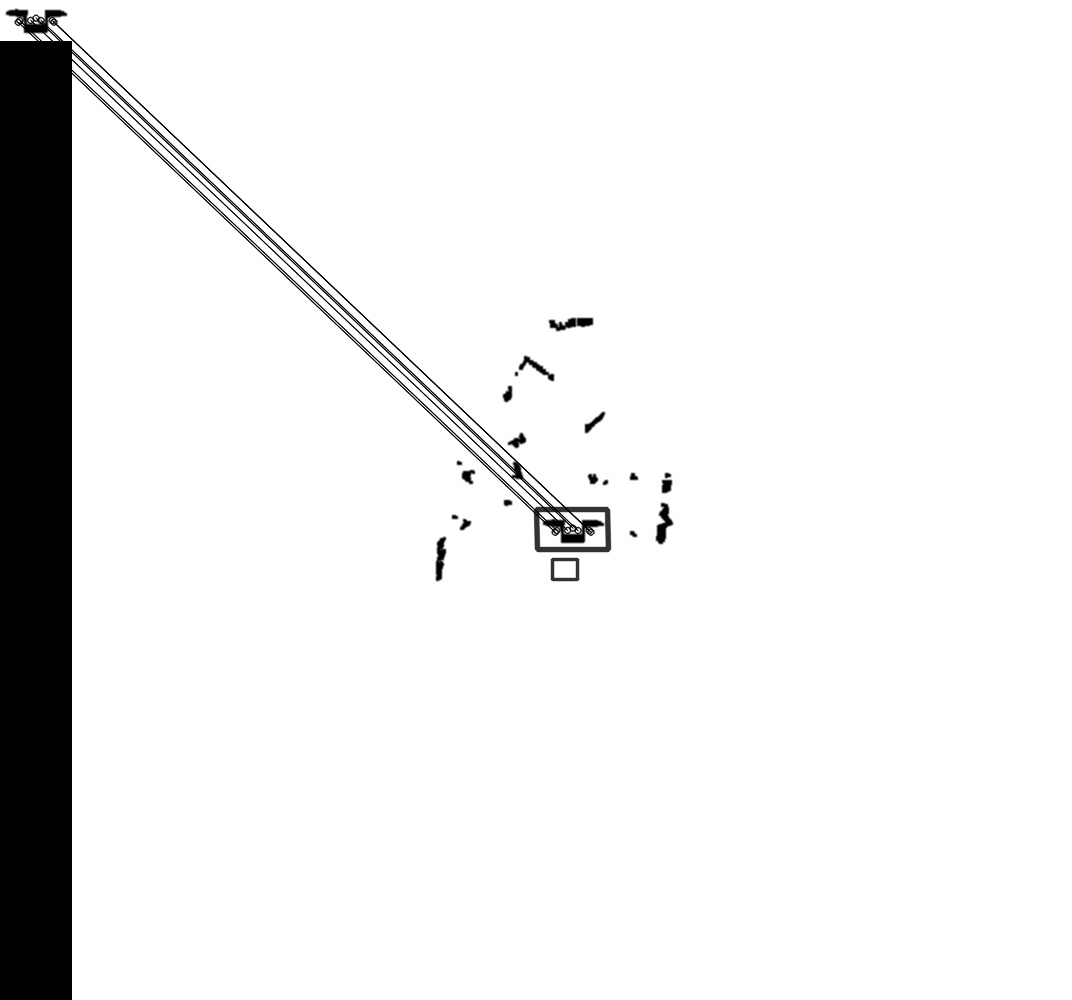
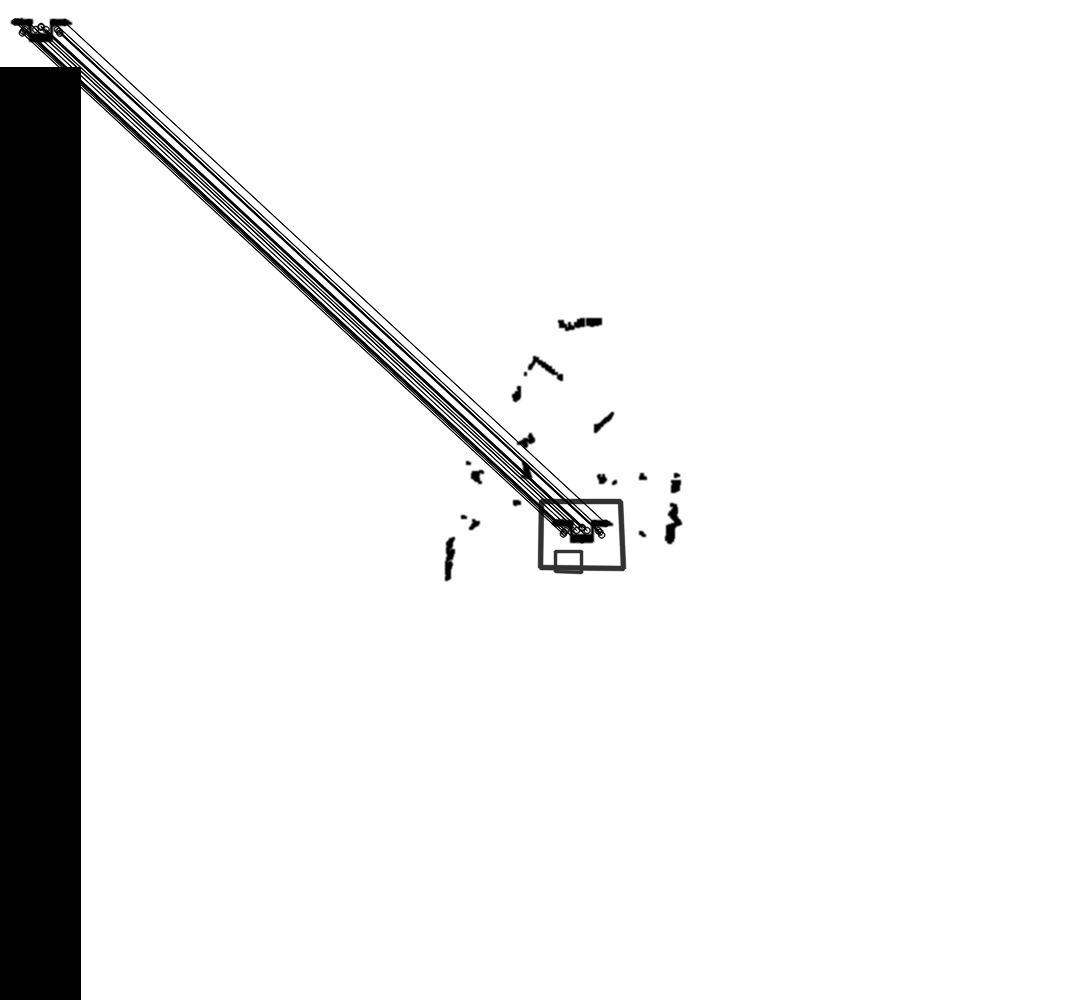
OK surf Live! Bigger parking spot image and tweak with surf threshold.

diff --git a/image_processing.py b/image_processing.py
@@ -6,7 +6,7 @@ from matplotlib import pyplot as plt
 THRESHOLD               = 100 #less means more stricts
 EROSION                 = 2 #Iteration. More means thicker
 DILATION                = 2 #Iteration. More means more is removed
-MIN_MATCH_COUNT         = 2
+MIN_MATCH_COUNT         = 8
 SURF                    = True
 SAVE_PICTURES           = False
 def thresholding(img):
@@ -45,23 +45,31 @@ def find_spot(img=None): #Working well ish
     img = cv2.imread('erosion.jpg', 0)
     img = blur(img, 3, 0)
 
-    box = cv2.imread('erosion_box.png',0) # queryImage
+    box = cv2.imread('test.png',0) # queryImage
     box = blur(box, 3, 0) #5 here 5 other both 0 works ok
 
     # Initiate surf detector
-    surf = cv2.xfeatures2d.SURF_create(2000*1.3) if SURF else cv2.xfeatures2d.SIFT_create()
+    surf = cv2.xfeatures2d.SURF_create(2000*2) if SURF else cv2.xfeatures2d.SIFT_create() #
 
     # find the keypoints and descriptors with surf
     kp1, des1 = surf.detectAndCompute(box,None)
     kp2, des2 = surf.detectAndCompute(img,None)
 
-    FLANN_INDEX_KDTREE = 0
+    '''FLANN_INDEX_KDTREE = 0
     index_params = dict(algorithm = FLANN_INDEX_KDTREE, trees = 5)
     search_params = dict(checks = 50)
 
     flann = cv2.FlannBasedMatcher(index_params, search_params)
 
-    matches = flann.knnMatch(des1,des2,k=2)
+    matches = flann.knnMatch(des1,des2,k=2)'''
+    bf = cv2.BFMatcher()
+    matches = bf.knnMatch(des1,des2,k=2)
+    # Apply ratio test
+    good = []
+    '''for m,n in matches:
+        if m.distance < 0.75*n.distance:
+            good.append([m])'''
+
 
     # store all the good matches as per Lowe's ratio test.
     good = []
@@ -73,9 +81,9 @@ def find_spot(img=None): #Working well ish
         print(len(good))
         src_pts = np.float32([ kp1[m.queryIdx].pt for m in good ]).reshape(-1,1,2)
         dst_pts = np.float32([ kp2[m.trainIdx].pt for m in good ]).reshape(-1,1,2)
-        #print(dst_pts)
-        #print(src_pts, dst_pts)
-        M, mask = cv2.findHomography(src_pts, dst_pts, cv2.RANSAC,5.0)
+        print(len(src_pts))
+        print(len(dst_pts))
+        M, mask = cv2.findHomography(src_pts, dst_pts, method = cv2.RANSAC, ransacReprojThreshold = 5, maxIters = 2000, confidence = 0.999)
         #print(M)
         matchesMask = mask.ravel().tolist()
         h,w = box.shape
@@ -93,6 +101,7 @@ def find_spot(img=None): #Working well ish
             x = (dst2[0][0][0] + dst2[1][0][0]) / 2 
             y = (dst2[2][0][0] + dst2[3][0][0]) / 2 
             parking_coordinates = (x,y)
+            print(x,y)
 
         else:
             print("M: " + str(M))

diff --git a/__main__.py b/__main__.py
@@ -22,8 +22,8 @@ while True:
         t_map = ip.thresholding(mapimg)
         d_map = ip.dilation(t_map)
         e_map =  ip.erosion(d_map)
-        blur = ip.blur(e_map, 7)
-        #identified, coordinates = ip.find_spot(blur)
+        blur = ip.blur(e_map, 3, 0)
+        identified, coordinates = ip.find_spot(blur)
         display_image = identified
         #print(identified)
         # print(display_image.shape[0])
@@ -43,6 +43,6 @@ while True:
         # e_map =  ip.erosion(d_map)
         # blur = ip.blur(e_map)
         # identified, coordinates = ip.find_spot(blur)
-        ip.find_spot()
+        #ip.find_spot()
         print("sleeping 1 sec")
         time.sleep(1)
